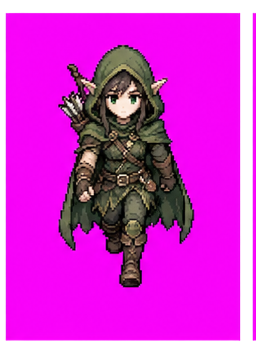
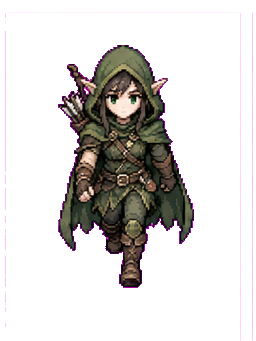
Procedural walk bounce/sway + chroma-key BG strip for iron/sylvan atlases
gpt-image-2 walk atlas issues found by direct inspection:
- aether_lord/rune_weaver: 4 frames near-identical (no leg motion)
- iron_sentinel: solid green BG instead of transparent
- sylvan_ranger: solid pink BG instead of transparent

Fixes:
1. tickPlayerAnimations adds procedural bounce (sin wave -4px) + sway (±3°)
   while moving. Always shows visible motion regardless of atlas frame quality.
2. tools/strip-bg.js: chroma-keys solid-color BG to alpha=0. Sample inside-cell
   opaque pixels to detect BG; only strip if vibrant chroma (not dark/neutral).
   Applied to iron_sentinel (16,244,8 green) + sylvan_ranger (248,3,250 pink).
   aether_lord/rune_weaver skipped (already transparent).
3. Re-sliced all 4 walk atlases.

diff --git a/tools/strip-bg.js b/tools/strip-bg.js
@@ -1,0 +1,72 @@
+#!/usr/bin/env node
+// Strip solid-color background (chroma key) from PNG → make alpha transparent.
+// Detects dominant edge color and removes pixels matching it within tolerance.
+// Usage: node tools/strip-bg.js <input.png> [output.png] [tolerance]
+
+import sharp from 'sharp';
+import { readFileSync, writeFileSync } from 'node:fs';
+
+const args = process.argv.slice(2);
+if (args.length < 1) {
+  console.error('Usage: strip-bg.js <input.png> [output.png] [tolerance=40]');
+  process.exit(1);
+}
+const input = args[0];
+const output = args[1] ?? input;
+const tolerance = Number(args[2] ?? 40);
+
+const img = sharp(input).ensureAlpha();
+const { data, info } = await img.raw().toBuffer({ resolveWithObject: true });
+const { width, height, channels } = info;
+
+// Sample multiple opaque (alpha>200) candidate-BG pixels at various locations.
+// gpt-image-2 sometimes draws solid color BG. Cell gutters may be transparent already
+// while cell interiors are filled, so sample from inside cells too.
+const samplePts = [
+  [Math.floor(width * 0.05), Math.floor(height * 0.05)], // top-left corner
+  [Math.floor(width * 0.95), Math.floor(height * 0.05)], // top-right
+  [Math.floor(width * 0.05), Math.floor(height * 0.95)], // bottom-left
+  [Math.floor(width * 0.95), Math.floor(height * 0.95)], // bottom-right
+  [Math.floor(width * 0.20), Math.floor(height * 0.10)], // inside cell
+  [Math.floor(width * 0.80), Math.floor(height * 0.10)],
+  [Math.floor(width * 0.20), Math.floor(height * 0.90)],
+  [Math.floor(width * 0.80), Math.floor(height * 0.90)],
+];
+// Pick majority opaque sample
+const opaqueSamples = [];
+for (const [x, y] of samplePts) {
+  const i = (y * width + x) * channels;
+  if (data[i + 3] > 200) opaqueSamples.push([data[i], data[i + 1], data[i + 2]]);
+}
+if (opaqueSamples.length === 0) {
+  console.log(`${input} → no opaque BG samples (already transparent), skipping`);
+  if (output !== input) writeFileSync(output, readFileSync(input));
+  process.exit(0);
+}
+const bg = [
+  Math.round(opaqueSamples.reduce((s, p) => s + p[0], 0) / opaqueSamples.length),
+  Math.round(opaqueSamples.reduce((s, p) => s + p[1], 0) / opaqueSamples.length),
+  Math.round(opaqueSamples.reduce((s, p) => s + p[2], 0) / opaqueSamples.length),
+];
+
+const isVibrantBG = Math.max(bg[0], bg[1], bg[2]) - Math.min(bg[0], bg[1], bg[2]) > 60;
+if (!isVibrantBG) {
+  console.log(`${input} → BG ${bg.join(',')} not vibrant, skipping`);
+  if (output !== input) writeFileSync(output, readFileSync(input));
+  process.exit(0);
+}
+
+// Replace pixels matching bg ± tolerance with alpha=0
+let cleared = 0;
+for (let i = 0; i < data.length; i += channels) {
+  const dr = data[i] - bg[0];
+  const dg = data[i + 1] - bg[1];
+  const db = data[i + 2] - bg[2];
+  if (Math.abs(dr) < tolerance && Math.abs(dg) < tolerance && Math.abs(db) < tolerance) {
+    data[i + 3] = 0;
+    cleared++;
+  }
+}
+
+await sharp(data, { raw: { width, height, channels } }).png().toFile(output);
+console.log(`${input} → BG ${bg.join(',')}, ${cleared}/${data.length / channels} px cleared → ${output}`);

diff --git a/apps/client/src/scenes/WorldScene.ts b/apps/client/src/scenes/WorldScene.ts
@@ -457,28 +457,40 @@ export class WorldScene extends Phaser.Scene {
       const isMoving = (now - sprite.lastWalkAt) < 350;
       const { row, flipX } = dirToWalkRow(sprite.dir);
       sprite.body.setFlipX(flipX);
+
+      // Procedural walk motion — bounce + sway. Works even if atlas frames are
+      // near-identical (gpt-image-2 often doesn't follow "4 walk-cycle frames"
+      // correctly, so we add visible motion in code).
       if (isMoving) {
-        if (now - sprite.lastFrameAt > 150) {
+        const phase = now / 90; // step rhythm
+        const bounce = Math.abs(Math.sin(phase)) * -4; // body lifts up to 4px
+        const sway = Math.sin(phase) * 0.05; // ±0.05 rad (~3°) torso sway
+        sprite.body.setY(bounce);
+        sprite.body.setRotation(flipX ? -sway : sway);
+      } else {
+        // Smooth return to neutral
+        sprite.body.setY(sprite.body.y * 0.7);
+        sprite.body.setRotation(sprite.body.rotation * 0.7);
+      }
+
+      if (isMoving) {
+        if (now - sprite.lastFrameAt > 130) {
           sprite.walkFrame = (sprite.walkFrame + 1) % 4;
           sprite.lastFrameAt = now;
         }
-        // Primary: P10 walk_{front/side/back}_{0..3}
         const wKey = `char_${cls}_walk_${row}_${sprite.walkFrame}`;
         if (this.textures.exists(wKey)) {
           sprite.body.setTexture(wKey);
           continue;
         }
-        // Fallback: walk_{dir} 1-frame (no animation but at least direction)
         const fallbackKey = `char_${cls}_walk_${sprite.dir}`;
         if (this.textures.exists(fallbackKey)) {
           sprite.body.setTexture(fallbackKey);
           continue;
         }
-        // Final fallback: idle
         const idleKey = `char_${cls}`;
         if (this.textures.exists(idleKey)) sprite.body.setTexture(idleKey);
       } else {
-        // Idle: standing pose (frame 0) of last facing direction
         const idleKey = `char_${cls}_walk_${row}_0`;
         if (this.textures.exists(idleKey)) {
           sprite.body.setTexture(idleKey);
